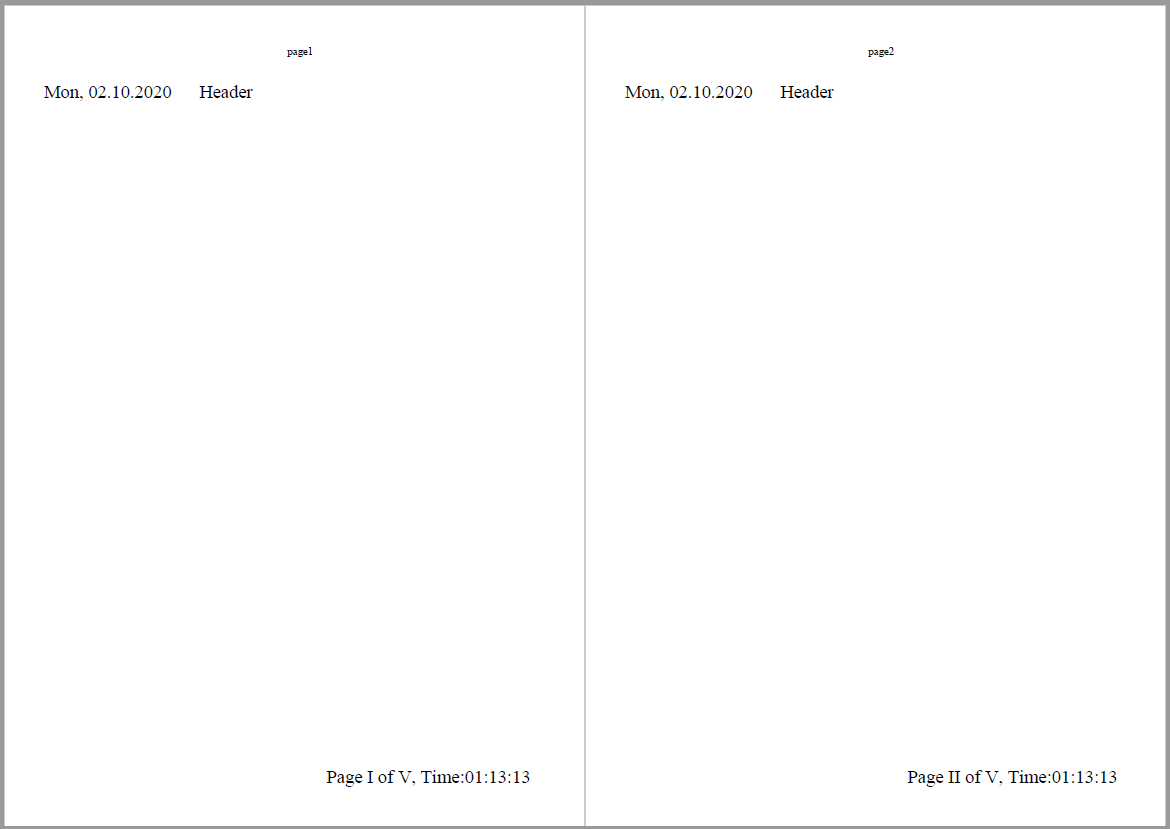
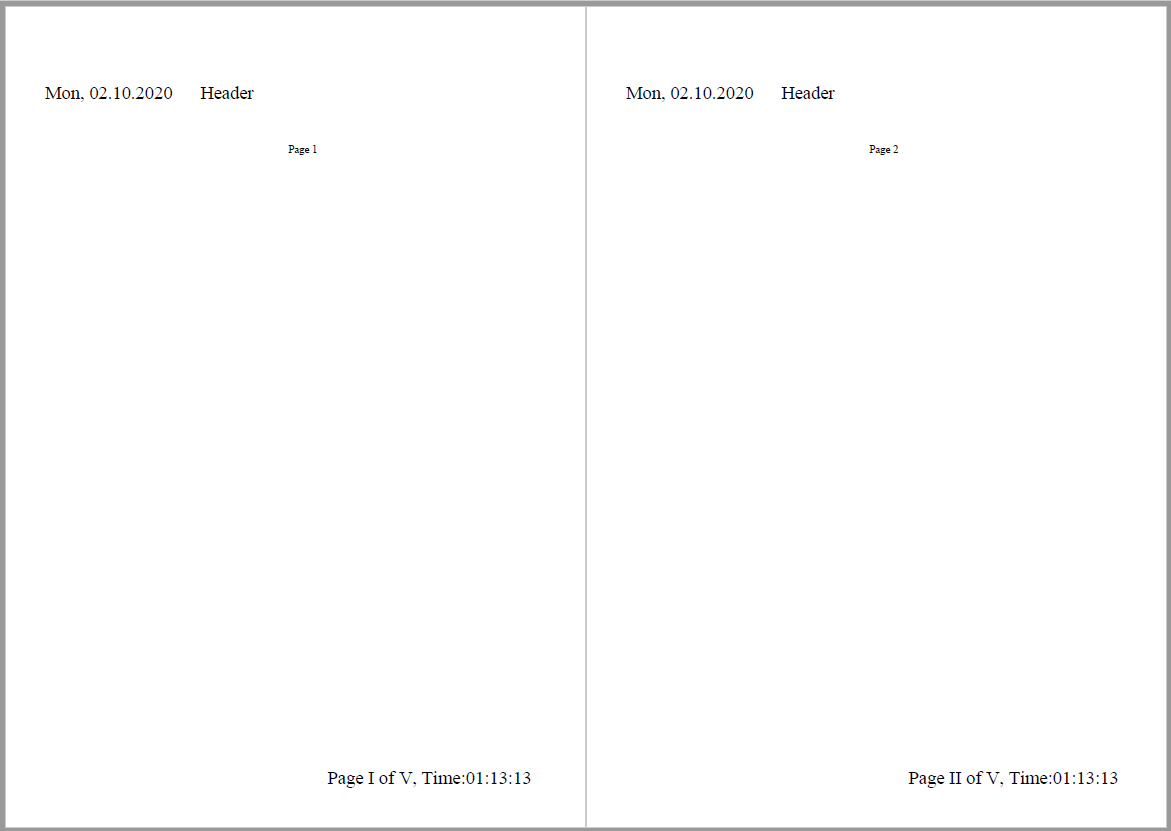
FLUT-6315-Add the output of the code snippet in the UG documentation

diff --git a/Flutter/pdf/working-with-headers-and-footers.md b/Flutter/pdf/working-with-headers-and-footers.md
@@ -23,15 +23,13 @@ The following code snippet explains how to use the graphics and automatic fields
 PdfDocument document = PdfDocument();
 
 //Add the pages to the document
-for (int i = 1; i <= 5; i++) {
-  document.pages.add().graphics.drawString(
-      'page$i', PdfStandardFont(PdfFontFamily.timesRoman, 11),
-      bounds: Rect.fromLTWH(250, 0, 615, 100));
+for (int i = 0; i < 5; i++) {
+  document.pages.add();
 }
 
 //Create the header with specific bounds
 PdfPageTemplateElement header = PdfPageTemplateElement(
-    Rect.fromLTWH(0, 0, document.pages[0].getClientSize().width, 300));
+    Rect.fromLTWH(0, 0, document.pages[0].getClientSize().width, 100));
 
 //Create the date and time field
 PdfDateTimeField dateAndTimeField = PdfDateTimeField(
@@ -99,6 +97,13 @@ compositeField.draw(footer.graphics,
 
 //Add the footer at the bottom of the document
 document.template.bottom = footer;
+
+//Draw text on the page
+for (int index = 0; index < 5; index++) {
+  document.pages[index].graphics.drawString(
+      'Page ${index + 1}', PdfStandardFont(PdfFontFamily.timesRoman, 11),
+      bounds: Rect.fromLTWH(250, 0, 615, 100));
+}
 
 //Save the PDF document
 File('HeaderAndFooter.pdf').writeAsBytes(document.save());
